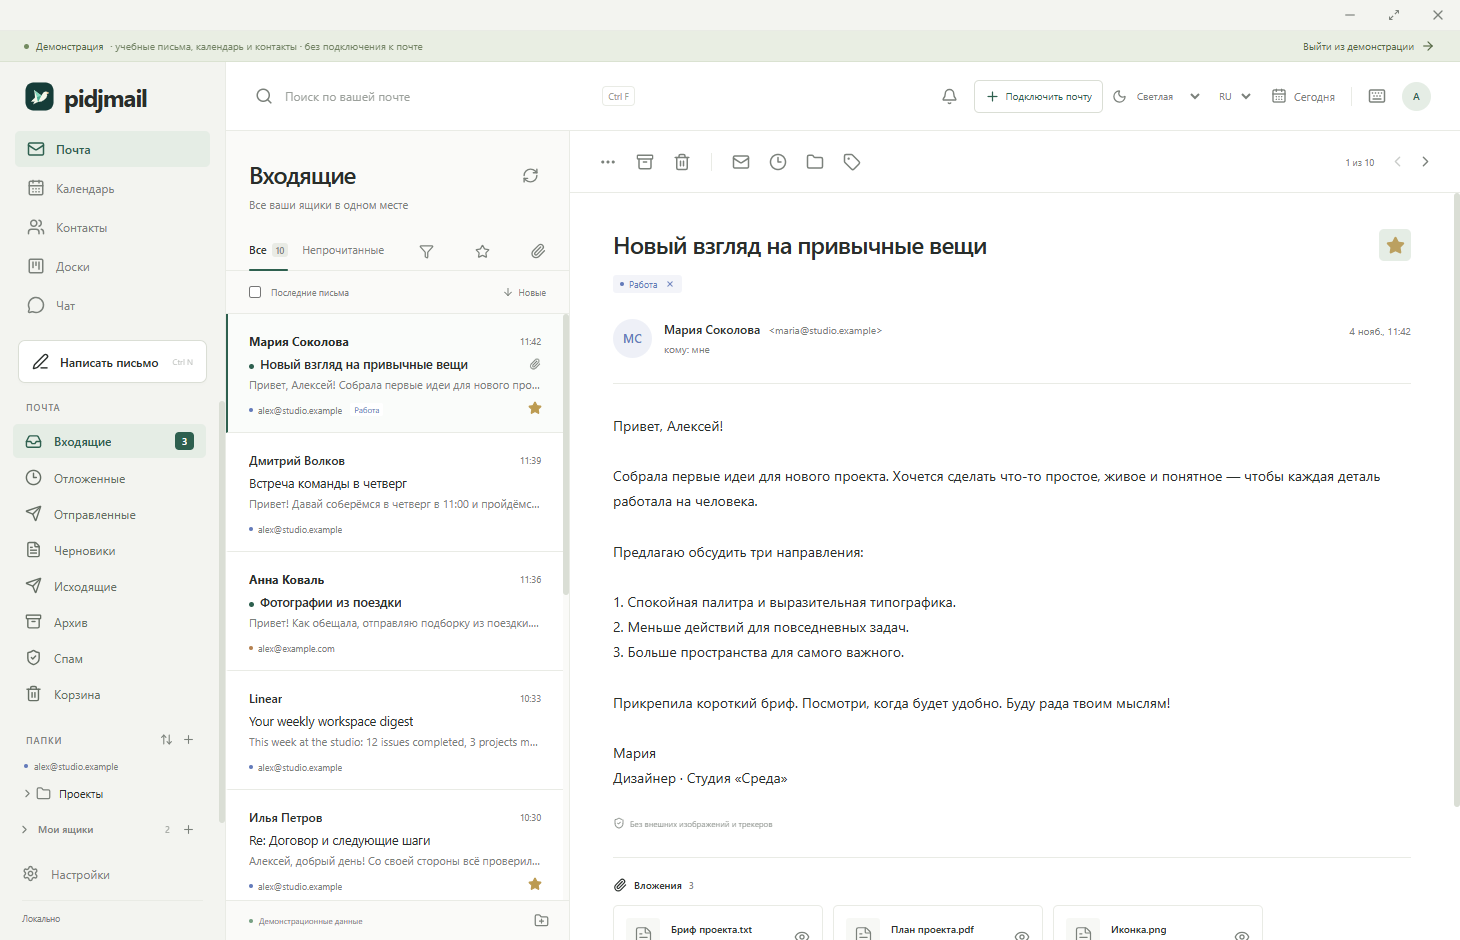
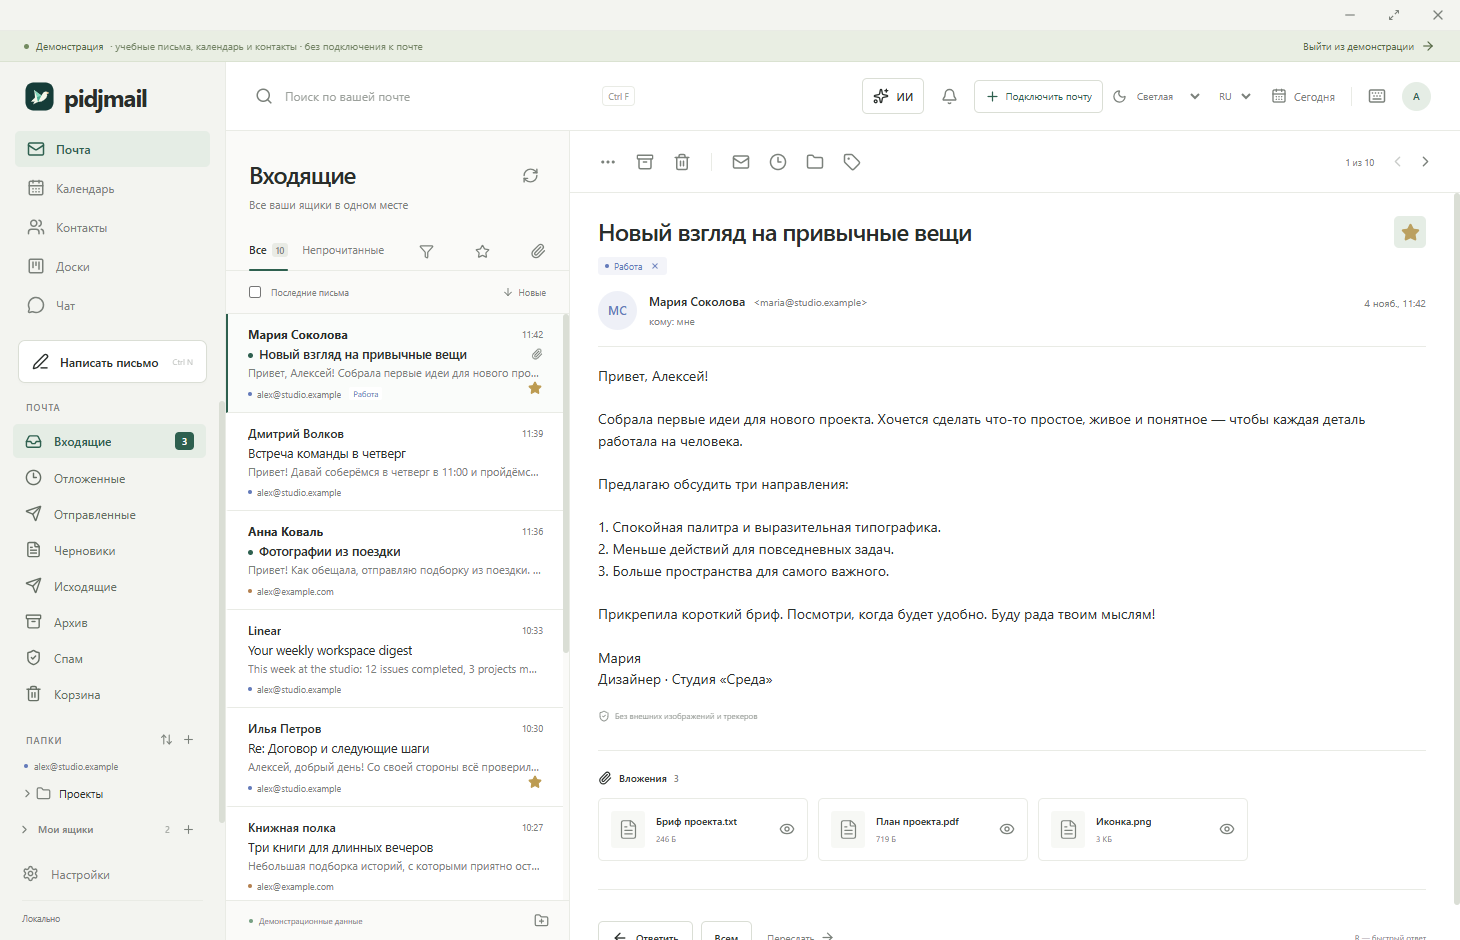
Publish Pidjmail 0.2.4 notes and refreshed demo screenshots

diff --git a/README.en.md b/README.en.md
@@ -18,17 +18,17 @@ Back up the complete profile folder, including `encryption-key.json` and `Browse
 
 - Multiple IMAP/SMTP accounts and a unified inbox, server folders and incoming mail updates through IMAP IDLE.
 - Replies, forwarding, drafts, scheduled sending and cancellation before SMTP transmission.
-- Incoming-mail filters, sender grouping, Ctrl+F search and restoration from Trash.
+- Incoming-mail filters, unread sender cards with separate message windows, Ctrl+F search and restoration from Trash.
 - In-memory previews for text, images and PDF, with an explicit **Save As** action.
 - Local calendar, contacts and kanban boards; turn an email into an event, task or contact.
 - Separate Mail / Calendar / Boards notifications, tray reminders, profile pictures and account signatures.
-- Russian and English interface; light, dark and system themes.
+- Russian and English interface; light, dark and system themes, custom app accents and per-folder/per-sender colours.
 - OpenAI / Claude in a right-side chat panel: web app sign-in or your own API key and model. Embedded sign-in depends on the service; a browser fallback is available.
 - Encrypted local profiles, with separate real-mail and demo workspaces.
 
 ## Download
 
-The latest release is available in **Releases**. Version 0.2.3 is an early working release.
+The latest release is available in **Releases**. Version 0.2.4 is an early working release.
 
 ➡ **[Download the latest version of Pidjmail](https://github.com/AdamAnomatik/Pidjmail-Releases/releases/latest)**
 
@@ -77,10 +77,10 @@ Real provider accounts and paid AI requests still require validation. Local TLS 
 You can verify the installer checksum in PowerShell:
 
 ```powershell
-Get-FileHash .\Pidjmail-Setup-0.2.3-x64.exe -Algorithm SHA256
+Get-FileHash .\Pidjmail-Setup-0.2.4-x64.exe -Algorithm SHA256
 ```
 
-The result must match the value published in `Pidjmail-Setup-0.2.3-x64.sha256.txt`.
+The result must match the value published in `Pidjmail-Setup-0.2.4-x64.sha256.txt`.
 
 ## Report an issue
 

diff --git a/README.md b/README.md
@@ -18,17 +18,17 @@ Back up the complete profile folder, including `encryption-key.json` and `Browse
 
 - Multiple IMAP/SMTP accounts and a unified inbox, server folders and incoming mail updates through IMAP IDLE.
 - Replies, forwarding, drafts, scheduled sending and cancellation before SMTP transmission.
-- Incoming-mail filters, sender grouping, Ctrl+F search and restoration from Trash.
+- Incoming-mail filters, unread sender cards with separate message windows, Ctrl+F search and restoration from Trash.
 - In-memory previews for text, images and PDF, with an explicit **Save As** action.
 - Local calendar, contacts and kanban boards; turn an email into an event, task or contact.
 - Separate Mail / Calendar / Boards notifications, tray reminders, profile pictures and account signatures.
-- Russian and English interface; light, dark and system themes.
+- Russian and English interface; light, dark and system themes, custom app accents and per-folder/per-sender colours.
 - OpenAI / Claude in a right-side chat panel: web app sign-in or your own API key and model. Embedded sign-in depends on the service; a browser fallback is available.
 - Encrypted local profiles, with separate real-mail and demo workspaces.
 
 ## Download
 
-The latest release is available in **Releases**. Version 0.2.3 is an early working release.
+The latest release is available in **Releases**. Version 0.2.4 is an early working release.
 
 ➡ **[Download the latest version of Pidjmail](https://github.com/AdamAnomatik/Pidjmail-Releases/releases/latest)**
 
@@ -77,10 +77,10 @@ Real provider accounts and paid AI requests still require validation. Local TLS 
 You can verify the installer checksum in PowerShell:
 
 ```powershell
-Get-FileHash .\Pidjmail-Setup-0.2.3-x64.exe -Algorithm SHA256
+Get-FileHash .\Pidjmail-Setup-0.2.4-x64.exe -Algorithm SHA256
 ```
 
-The result must match the value published in `Pidjmail-Setup-0.2.3-x64.sha256.txt`.
+The result must match the value published in `Pidjmail-Setup-0.2.4-x64.sha256.txt`.
 
 ## Report an issue
 

diff --git a/CHANGELOG.md b/CHANGELOG.md
@@ -1,5 +1,16 @@
 # История изменений / Changelog
 
+## 0.2.4 · 2026-11-04
+
+- Непрочитанные сгруппированы по отправителям: отдельные окна списка и письма.
+- Кнопка ИИ видна сразу; ChatGPT/Claude предлагают вход в приложение или настройку API.
+- Исправлена ложная ошибка «Папка изменилась» во время фоновой синхронизации.
+- Компактнее список писем, чтение и настройки. Подписи объединены в разделе «Письма» с выбором ящика.
+- Основной цвет приложения, общие и индивидуальные цвета папок и отправителей.
+- Проверены установка поверх 0.2.3, сохранение тестовой учётной записи, повторная установка и сохранность профиля после удаления.
+
+Unread sender cards and separate message windows, a visible AI entry, fixed folder-generation handling during sync, tighter spacing, consolidated signatures, and app/folder/sender colours. Upgrade and profile retention verified with a disposable account. Installer remains unsigned.
+
 ## 0.2.3 · 2026-11-04
 
 - Все исправления ключа профиля и оформления установщика из предварительной 0.2.2.

diff --git a/README.ru.md b/README.ru.md
@@ -28,7 +28,7 @@
 
 ## Скачать
 
-Последняя версия доступна в разделе **Releases**. Версия 0.2.3 — ранняя рабочая сборка.
+Последняя версия доступна в разделе **Releases**. Версия 0.2.4 — ранняя рабочая сборка.
 
 ➡ **[Скачать последнюю версию Pidjmail](https://github.com/AdamAnomatik/Pidjmail-Releases/releases/latest)**
 
@@ -77,10 +77,10 @@
 В PowerShell:
 
 ```powershell
-Get-FileHash .\Pidjmail-Setup-0.2.3-x64.exe -Algorithm SHA256
+Get-FileHash .\Pidjmail-Setup-0.2.4-x64.exe -Algorithm SHA256
 ```
 
-Полученное значение должно совпасть с файлом `Pidjmail-Setup-0.2.3-x64.sha256.txt`.
+Полученное значение должно совпасть с файлом `Pidjmail-Setup-0.2.4-x64.sha256.txt`.
 
 ## Сообщить об ошибке
 
